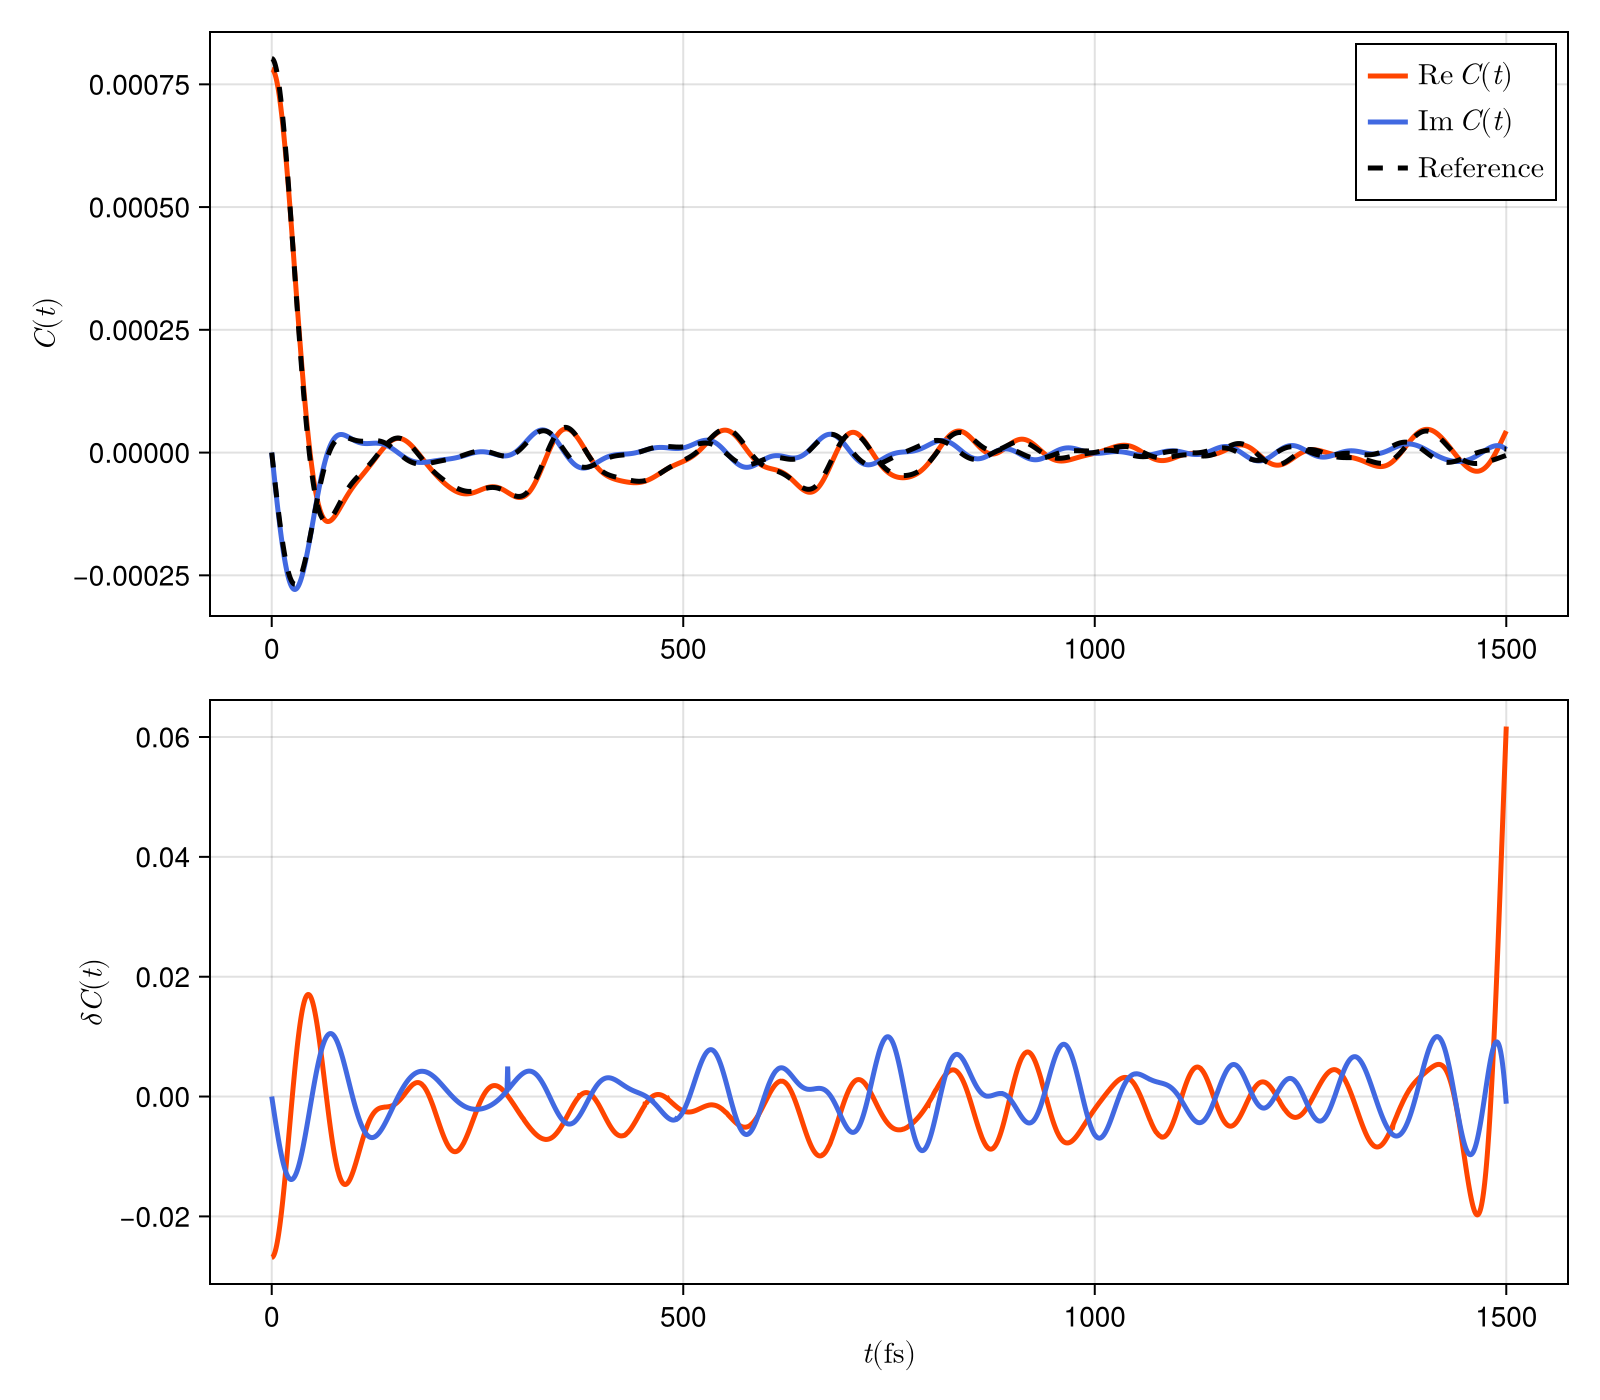
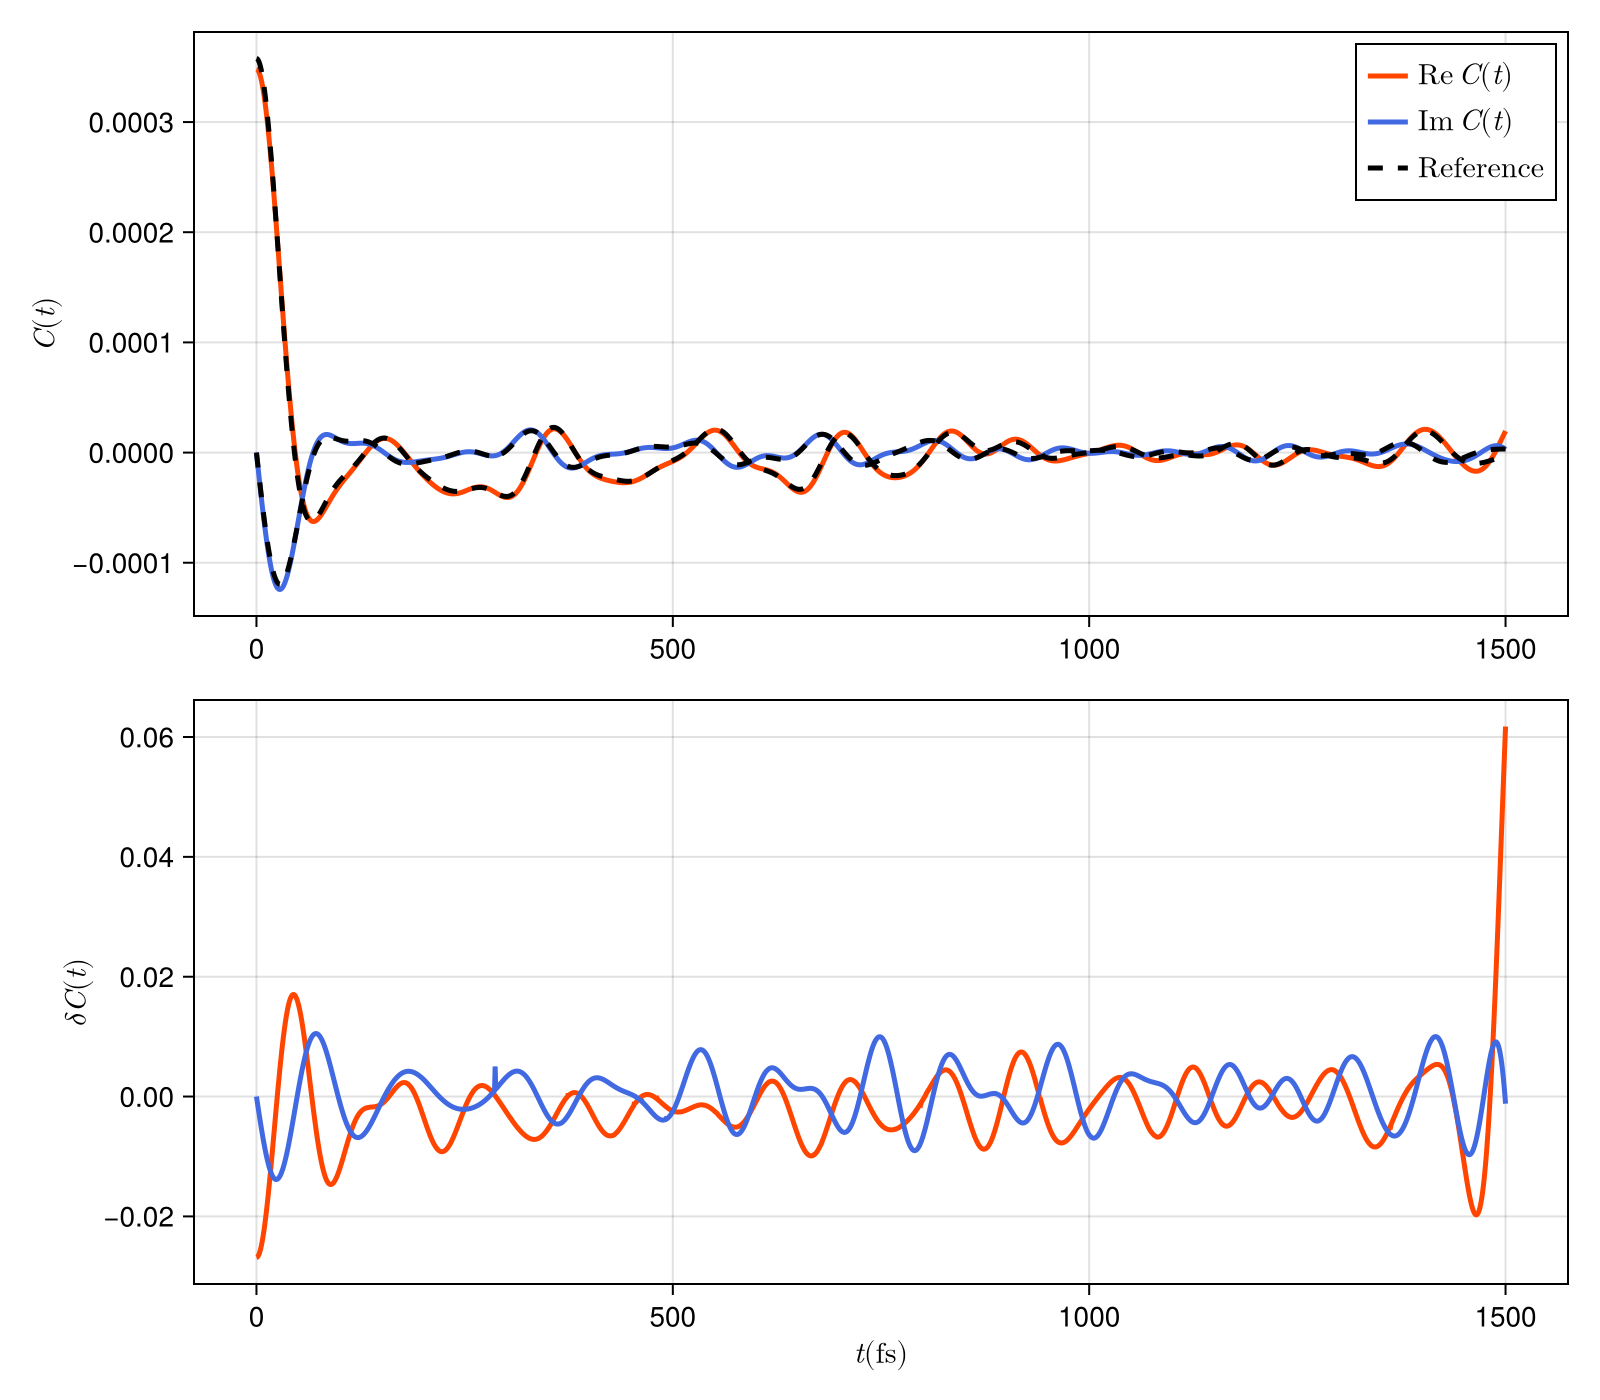
restructuring

diff --git a/README.md b/README.md
@@ -9,7 +9,7 @@ QFiND (Quantum Finite-temperature Noise Discretizer and Decomposer) provides rou
 
 $$
 \begin{aligned}
-C(t)&=\frac{1}{2\pi} \int_{-\infty}^{\infty} \mathrm{d}\omega J(\omega)\left[\mathrm{coth}\left(\frac{\beta \omega}{2}\right)+1\right] \mathrm{e}^{-i \omega t}\\
+C(t)&=\frac{1}{4} \int_{-\infty}^{\infty} \mathrm{d}\omega J(\omega)\left[\mathrm{coth}\left(\frac{\beta \omega}{2}\right)+1\right] \mathrm{e}^{-i \omega t}\\
 &\approx \sum_{k=1}^M g_k^2 \mathrm{e}^{-i\omega_k t}
 \end{aligned}
 $$
